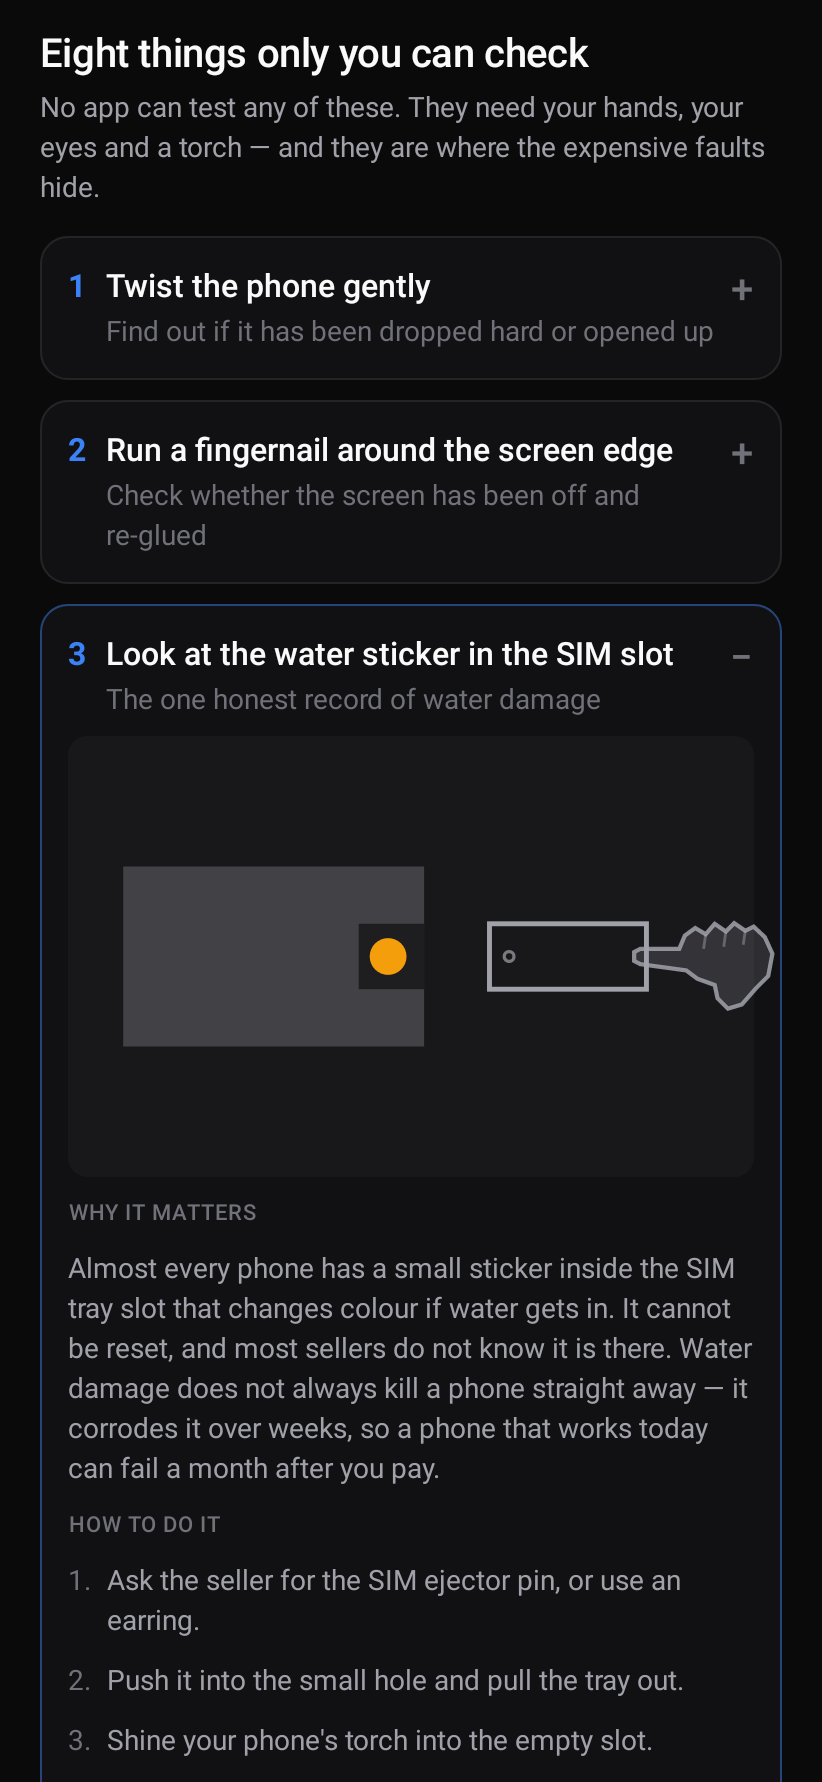
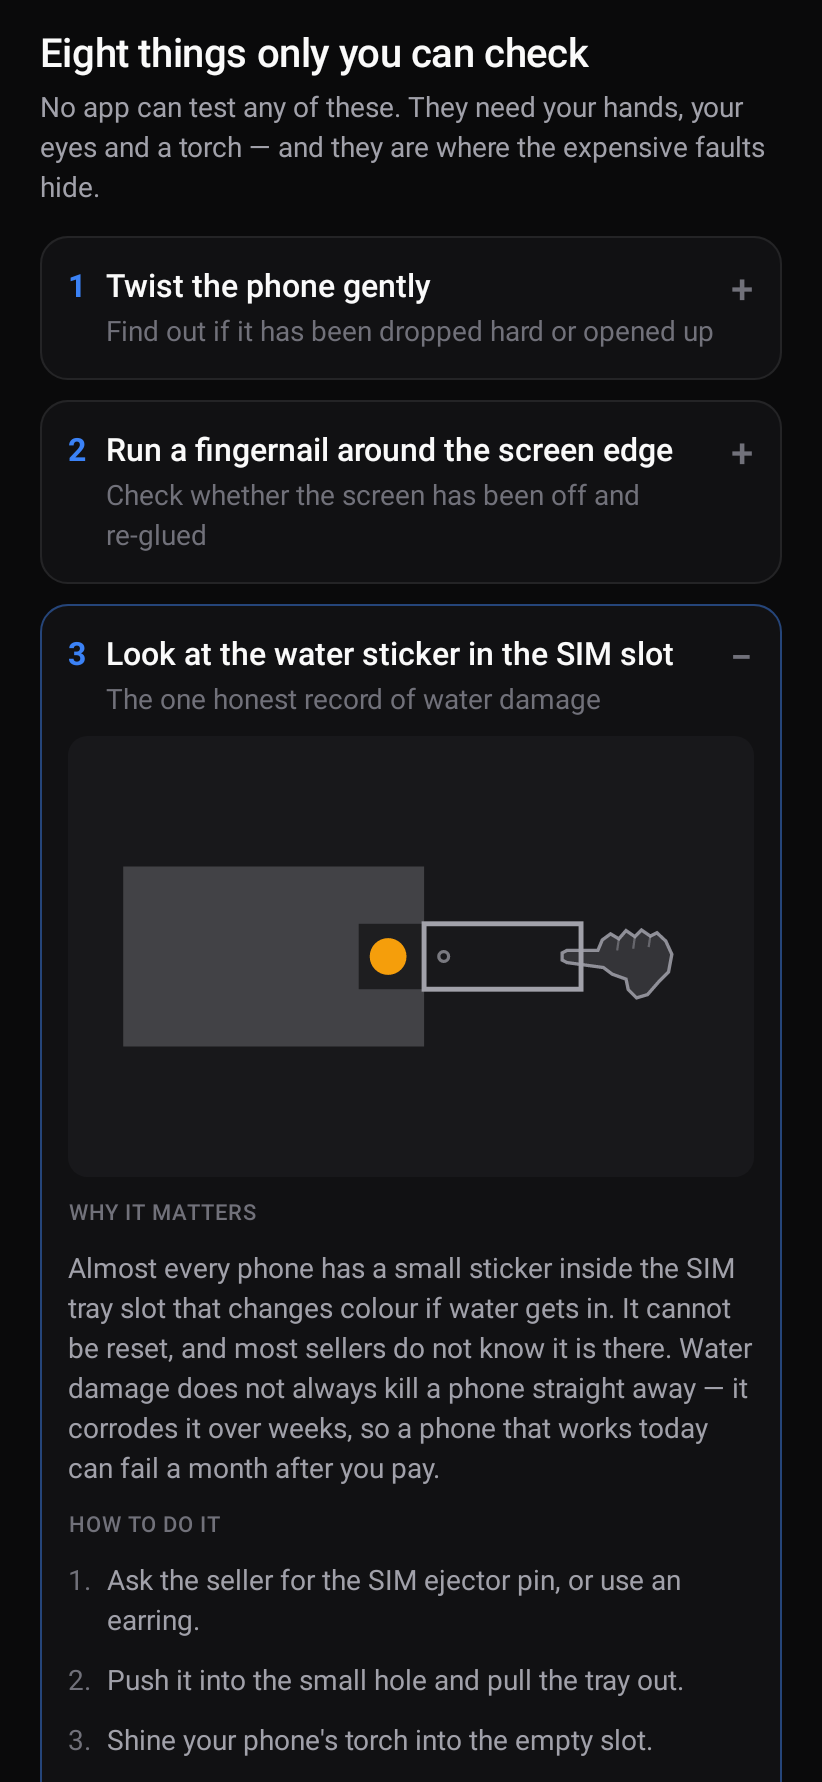
Lay the account hand flatter, so it stops reaching into the row above
At 208 degrees the wrist still climbed 0.22 of the height from the fingertip,
which is more than the 0.20 gap between rows: the hand overlapped the row above
and read as tapping that one. Flatter, it leaves sideways through the frame edge
instead of upwards through the list.

Changed region(s): [[0.6691, 0.4938, 0.9428, 0.5864], [0.4866, 0.4938, 0.5779, 0.5556], [0.5779, 0.5247, 0.6083, 0.5556]]

diff --git a/feature/guide/src/main/kotlin/com/phoneproof/feature/guide/GuideDiagrams.kt b/feature/guide/src/main/kotlin/com/phoneproof/feature/guide/GuideDiagrams.kt
@@ -678,9 +678,9 @@ private fun DrawScope.drawAccountRemoved(progress: Float, ink: Color, warn: Colo
     // that one instead. Three rows twenty percent of the height apart leave no room for a whole hand
     // between them, so it leaves by the edge rather than shrinking to fit.
     drawHand(
-        tip = Offset(w * 0.72f, y + h * 0.055f - (1f - strike) * h * 0.09f),
+        tip = Offset(w * 0.70f, y + h * 0.060f - (1f - strike) * h * 0.09f),
         length = h * 0.25f,
-        angleDegrees = 208f,
+        angleDegrees = 238f,
         ink = ink,
     )
 }
